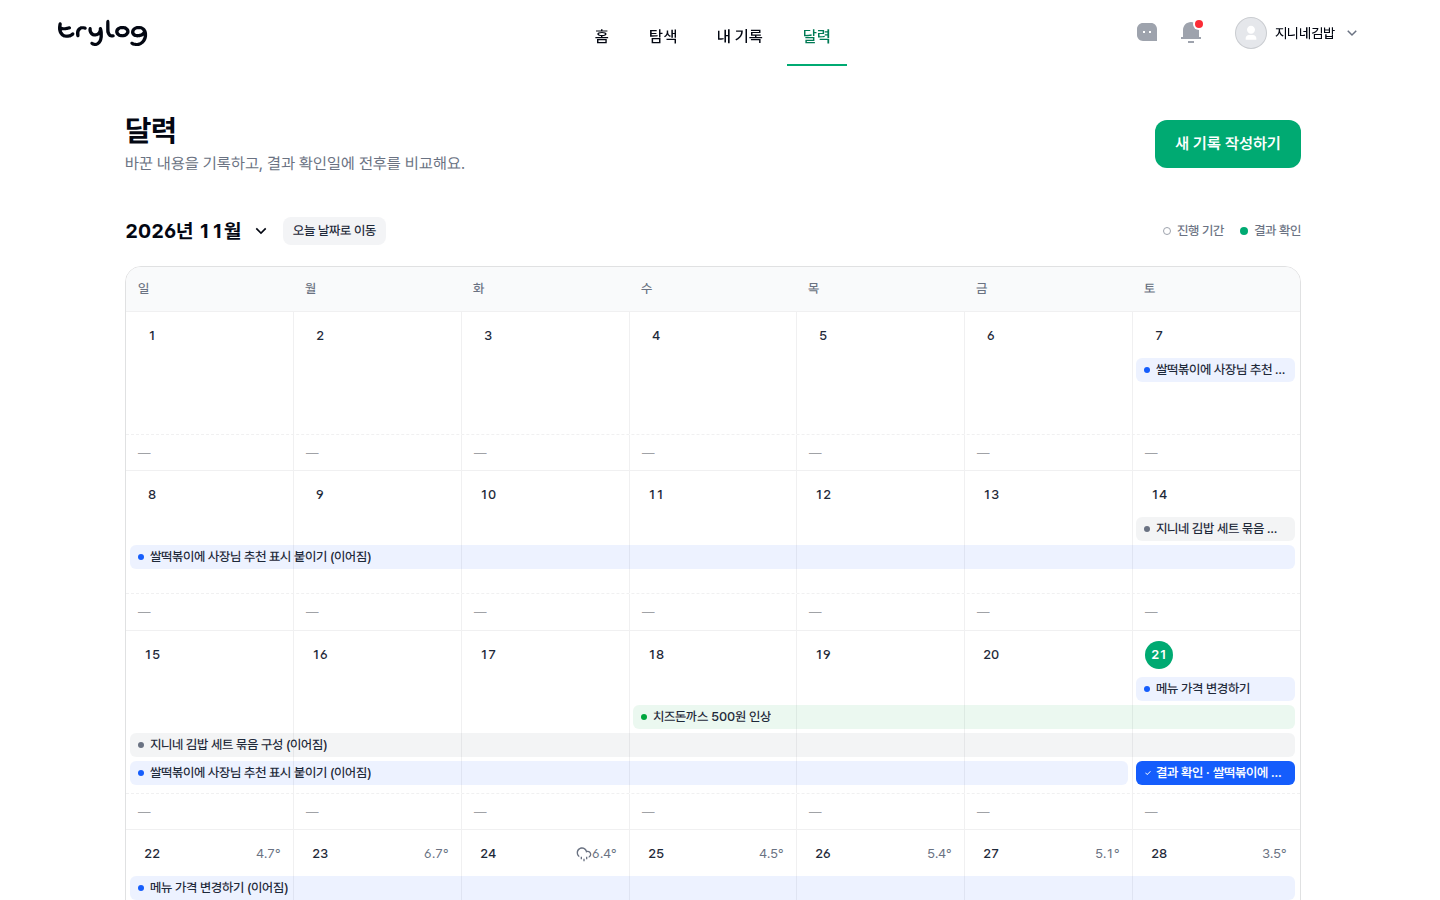
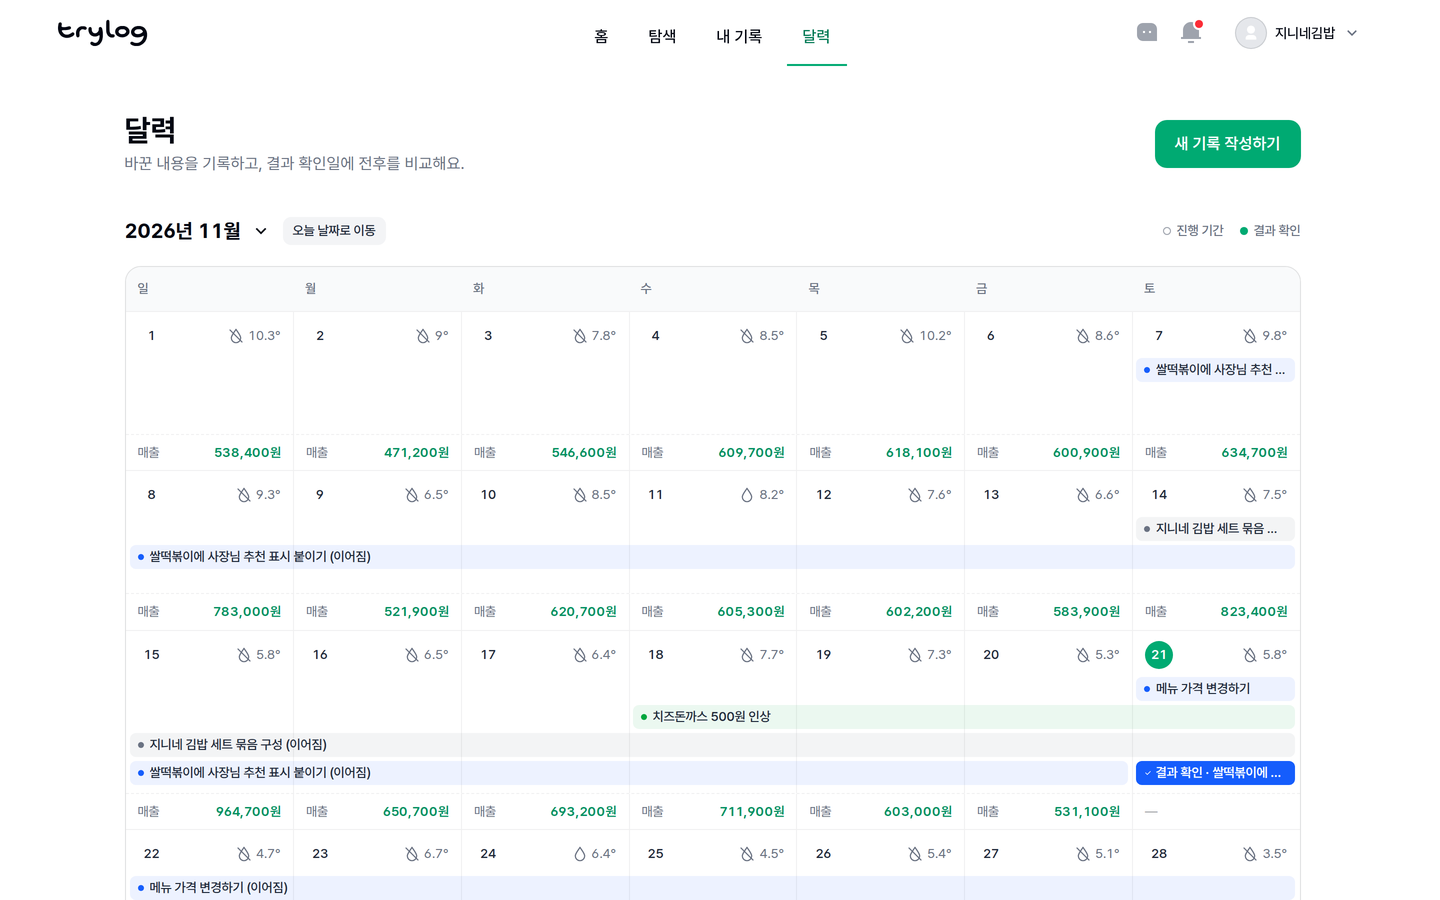
README를 최신 화면에 맞춤: 홈·달력 캡처 교체, 설명과 테스트 수 수정
- 홈(이번 주 매출 보기), 달력(날짜별 매출·날씨), 휴대폰 홈 캡처를 새 화면으로 교체
- 홈과 달력 설명을 바뀐 화면에 맞게 고침 (이번 주/다음 7일 전환, 날짜별 실제 매출)
- 백엔드 테스트 수 32개 → 35개, Spring이 맡는 일에 일별 매출과 날씨 추가

diff --git a/README.md b/README.md
@@ -7,7 +7,7 @@
 
 **서비스 주소** · https://hgkim-mini-pc.taild27e83.ts.net/try-log/
 
-<p align="center"><img src=".github/readme/home.png" alt="트라이로그 홈: 인사말, 다음 7일 예상 매출과 진행 중인 기록, 기록 현황, 오른쪽 AI 대화창" width="900"></p>
+<p align="center"><img src=".github/readme/home.png" alt="트라이로그 홈: 인사말, 이번 주 날짜별 매출과 진행 중인 기록, 기록 현황, 오른쪽 AI 대화창" width="900"></p>
 
 ---
 
@@ -65,11 +65,11 @@
 
 ### 3. 내 기록과 달력
 
-저장한 기록은 상태(확인 필요, 진행 중, 시작 예정, 완료, 중단)별로 모아 보고, 달력에서 진행 기간과 결과 확인일을 날짜에 맞춰 봅니다. 달력에는 앞으로 7일의 예보 기온과 강수도 함께 표시합니다.
+저장한 기록은 상태(확인 필요, 진행 중, 시작 예정, 완료, 중단)별로 모아 보고, 달력에서 진행 기간과 결과 확인일을 날짜에 맞춰 봅니다. 달력에는 날짜별 실제 매출과 날씨, 앞으로 7일의 예상 매출도 함께 표시해서, 시도하는 동안 매출이 어땠는지 바로 봅니다.
 
 | 내 기록 | 달력 |
 | --- | --- |
-| <img src=".github/readme/records.png" alt="상태 필터가 있는 기록 목록" width="430"> | <img src=".github/readme/calendar.png" alt="진행 기간과 결과 확인일이 표시된 월 달력" width="430"> |
+| <img src=".github/readme/records.png" alt="상태 필터가 있는 기록 목록" width="430"> | <img src=".github/readme/calendar.png" alt="날짜별 매출, 날씨, 진행 기간, 결과 확인일이 표시된 월 달력" width="430"> |
 
 ### 4. 결과 확인: 전후 비교
 
@@ -81,7 +81,7 @@
 
 ### 5. 홈과 앞으로 7일 예상 매출
 
-홈에서는 결과를 확인할 기록이 몇 건인지부터 알려 주고, 기록 현황(진행 중, 결과 확인 필요, 확인 완료)을 숫자로 보여 줍니다. 내일부터 7일간의 날짜별 예상 매출과 날씨 아래에는 그 주에 진행 중인 기록이 기간 막대로 함께 놓여서, 어떤 시도를 하는 동안 매출이 어떻게 예상되는지 한 화면에서 봅니다. 매출 전망 화면에서는 7일 합계, 하루 평균, 가장 많은 날을 따로 봅니다.
+홈에서는 결과를 확인할 기록이 몇 건인지부터 알려 주고, 기록 현황(진행 중, 결과 확인 필요, 확인 완료)을 숫자로 보여 줍니다. 주간 표는 '이번 주'(날짜별 실제 매출)와 '다음 7일'(날짜별 예상 매출)을 오가며 봅니다. 날씨와 그 주에 진행 중인 기록이 기간 막대로 함께 놓여서, 시도하는 동안 매출이 어땠고 앞으로 어떻게 예상되는지 한 화면에서 봅니다. 매출 전망 화면에서는 7일 합계, 하루 평균, 가장 많은 날을 따로 봅니다.
 
 <p align="center"><img src=".github/readme/forecast.png" alt="앞으로 7일 예상매출: 7일 합계, 하루 평균, 날짜별 막대그래프" width="860"></p>
 
@@ -106,7 +106,7 @@
 | 컨테이너 | 기술 | 맡은 일 |
 | --- | --- | --- |
 | `trylog-web` | nginx | Vite로 빌드한 화면을 제공하고, `/api/v1/agent/`는 에이전트로, 나머지 `/api/`는 Spring으로 넘깁니다. |
-| `trylog-api` | Spring Boot 3.5 · Java 17 | 로그인과 세션, 기록 등록과 조회, 전후 비교 보고서, 7일 매출 전망, 주소 검색, 대화 내역 저장을 맡습니다. 업무 테이블을 읽고 쓰는 곳은 이 서버뿐입니다. |
+| `trylog-api` | Spring Boot 3.5 · Java 17 | 로그인과 세션, 기록 등록과 조회, 전후 비교 보고서, 일별 매출과 날씨, 7일 매출 전망, 주소 검색, 대화 내역 저장을 맡습니다. 업무 테이블을 읽고 쓰는 곳은 이 서버뿐입니다. |
 | `trylog-agent` | FastAPI · LangGraph | 대화 에이전트, 음성 전사(STT)와 답 읽기(TTS), 결과 설명을 맡습니다. ML 예측 코드(`ml/`)를 같은 프로세스에 불러와 `/api/v1/ml` 경로로도 제공합니다. |
 | `postgres-db` | PostgreSQL 17 | `seoul_youth_ai_hackathon` 스키마에 가게, 계정, 메뉴, 주문, 기록, 예측, 대화 내역을, `trylog_agent` 스키마에 에이전트의 대화 상태를 따로 둡니다. |
 
@@ -298,7 +298,7 @@ cd ../deploy && DB_PASSWORD='...' docker compose up -d --build
 | 대상 | 방법 | 규모 |
 | --- | --- | --- |
 | 에이전트 | `pytest`. 가짜 Spring 서버(`tests/fake_spring.py`)와 가짜 OpenAI로 실제 외부 호출 없이 대화 흐름, 숫자 가드, 로그인 전달, STT/TTS 오류 처리를 검사합니다. | 93개 (Postgres 연동 3개는 `TRYLOG_TEST_DB_URL`이 있을 때만) |
-| API 서버 | JUnit 5와 Spring Security Test로 로그인과 가입, 기록 등록, 전후 비교 계산, 7일 전망, 주소 검색, 대화 내역을 검사합니다. | 32개 |
+| API 서버 | JUnit 5와 Spring Security Test로 로그인과 가입, 기록 등록, 전후 비교 계산, 7일 전망, 일별 매출과 날씨, 주소 검색, 대화 내역을 검사합니다. | 35개 |
 | 화면 | `npm run build`(타입 검사 포함), `npm run format:check`(Prettier 서식 검사) | |
 
 ---
